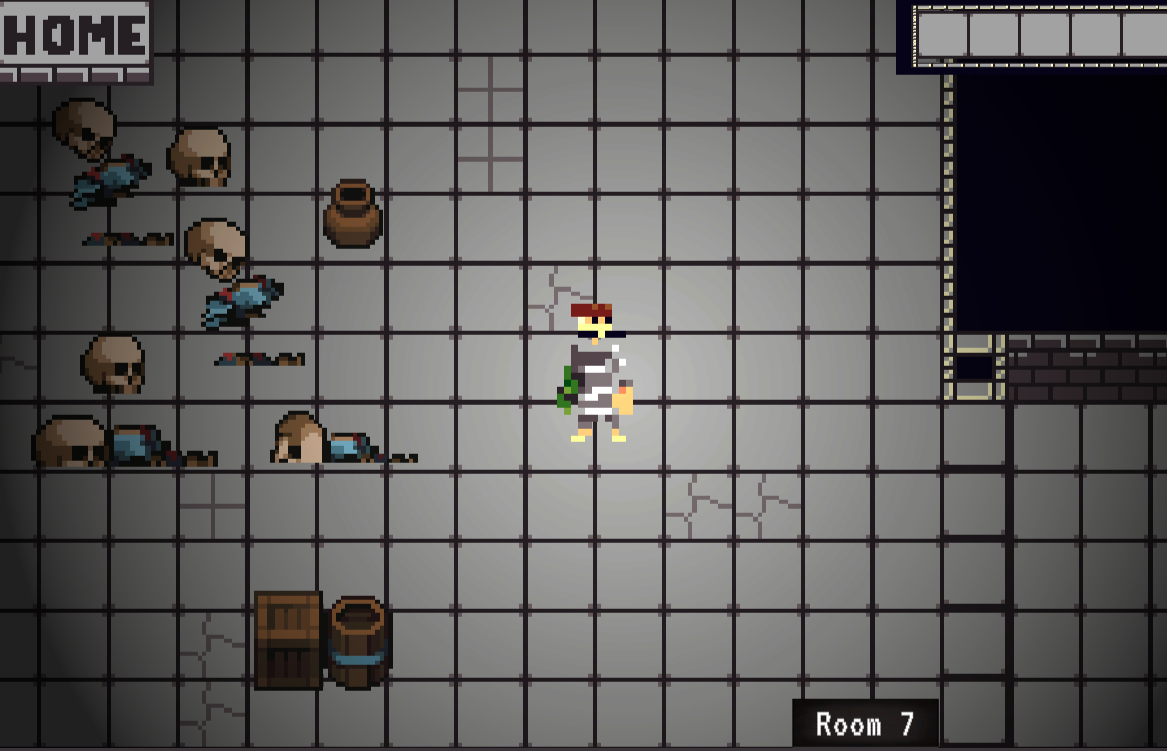
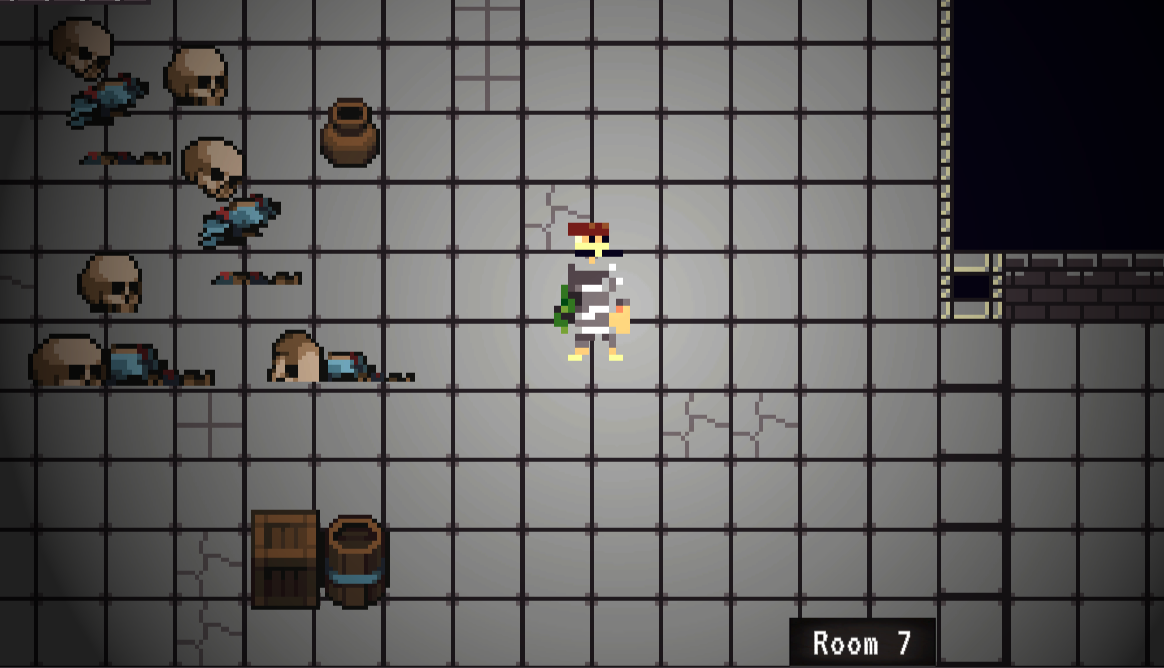
ADD REP DUN PANIC ROOM SUBSECTION

Changed region(s): [[0.0, 0.0, 1.0, 1.0]]

diff --git a/Projects/rep_dungeon.html b/Projects/rep_dungeon.html
@@ -140,7 +140,7 @@
    </div>
   </div>
 
-   <!--Ghost Follow Player-->
+  <!--Ghost Follow Player-->
 <div class="subPara">
   <h2 class="heading">Ghost Follow Player</h2>
    <div class="text">
@@ -164,6 +164,31 @@
     </div>
    </div>
   </div>
+
+     <!--Panic Room-->
+<div class="subPara">
+  <h2 class="heading">Panic Room</h2>
+   <div class="text">
+    <p>
+        Room 7 is where a brief clip is played that shows the player losing control and smash everything in the room
+        with the phrase 'You are all alone, with me' to allude that the monster that killed everyone lives within the player character.<br>
+        The clip was made using <strong>Cinemachine</strong> and is played once the player character set the trigger on by stepping into the room.
+    </p>
+ 
+    
+    <div class="img-container">
+      <figure>
+      <img src="./Rep_dungeon_imgs/panic_room_before.png" alt="panic room before">
+      <figcaption>Panic Room Before</figcaption>
+    </figure>
+    <figure>
+      <img src="./Rep_dungeon_imgs/panic_room_after.png" alt="panic room after">
+      <figcaption>Panic Room After</figcaption>
+      </figure>
+    </div>
+   </div>
+  </div>
+
 </section>
 
 </body>
